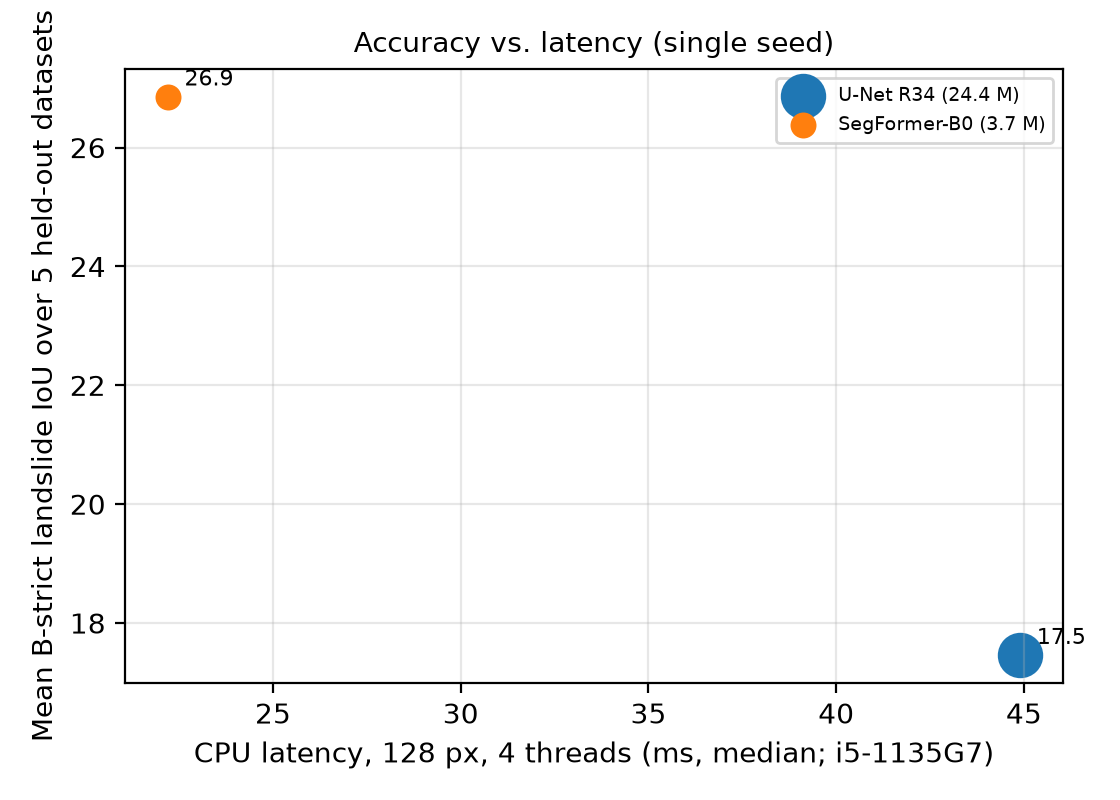
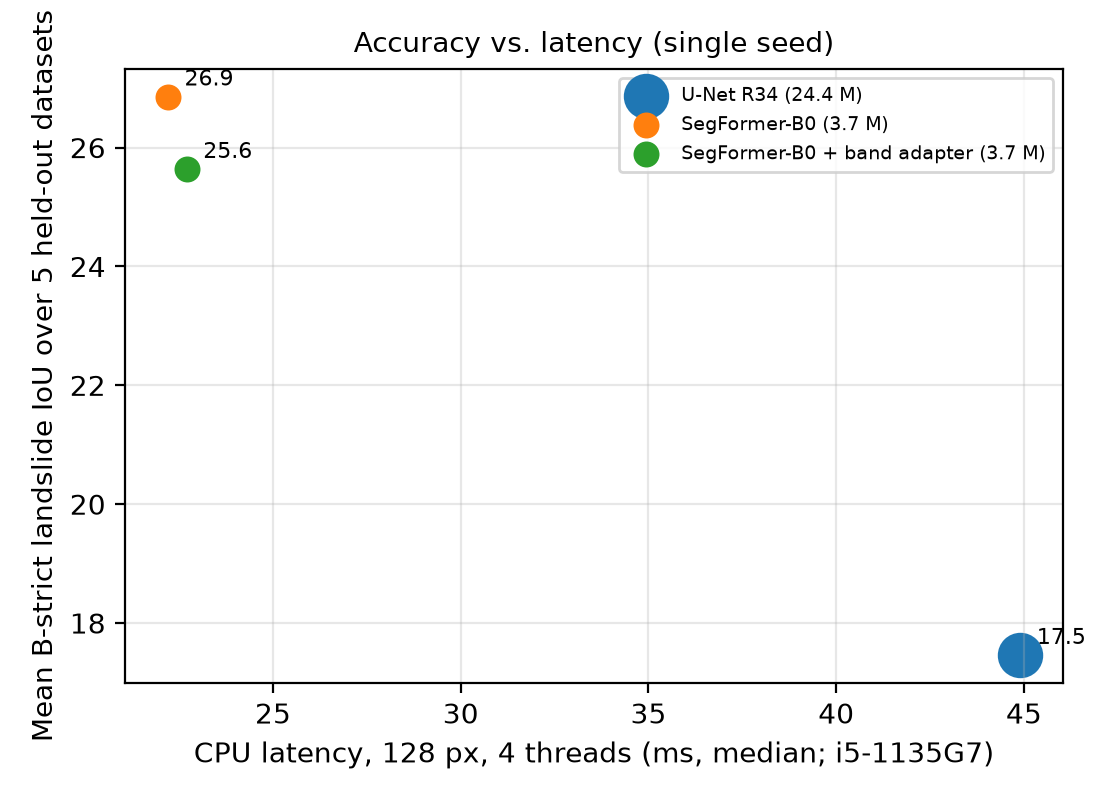
Adapter cross-dataset results; name normalisation in readers; ledger

Changed region(s): [[0.5312, 0.0938, 0.9375, 0.2188], [0.1562, 0.1562, 0.2188, 0.25]]

diff --git a/scripts/aggregate.py b/scripts/aggregate.py
@@ -3,6 +3,7 @@
 Run: python -I scripts/aggregate.py
 """
 import json
+import re
 from pathlib import Path
 
 import numpy as np
@@ -14,7 +15,7 @@ for f in sorted((ROOT / "results" / "runs").glob("*/result.json")):
     r = json.loads(f.read_text())
     for ds, m in r["test"].items():
         m = {k: v for k, v in m.items() if k != "by_group"}
-        rows.append(dict(run=r["run_id"], name=r["config"]["name"], model=r["config"]["model"], fold=r["config"]["fold"], seed=r["seed"],
+        rows.append(dict(run=r["run_id"], name=re.sub(r"__holdout_\w+$", "", r["config"]["name"]), model=r["config"]["model"], fold=r["config"]["fold"], seed=r["seed"],
                          test_dataset=ds, mIoU=100 * m["miou"], IoU_landslide=100 * m["iou_landslide"], F1=100 * m["f1"],
                          precision=100 * m["precision"], recall=100 * m["recall"], PR_AUC=m["pr_auc"], ECE=m["ece"],
                          params_M=r["n_params"] / 1e6, GFLOPs=r["gflops_at_input"], input_px=r["input_hw"], train_s=r["train_seconds"],

diff --git a/scripts/make_paper_tables.py b/scripts/make_paper_tables.py
@@ -4,6 +4,7 @@ Run: python -I scripts/make_paper_tables.py  ->  results/tables/paper_tables.md
 Cells without a run print 'n/a'. Cells with >1 seed print mean +- std (n); single-seed cells print the value and '(n=1)'.
 """
 import json
+import re
 from pathlib import Path
 
 import numpy as np
@@ -12,7 +13,8 @@ ROOT = Path(__file__).resolve().parents[1]
 RUNS = {}
 for f in sorted((ROOT / "results" / "runs").glob("*/result.json")):
     r = json.loads(f.read_text())
-    RUNS.setdefault((r["config"]["name"], r["config"]["fold"]), []).append(r)
+    # the adapter configs carry the fold inside `name` (xd_..._adapter_...__holdout_X); strip it so name identifies the method only
+    RUNS.setdefault((re.sub(r"__holdout_\w+$", "", r["config"]["name"]), r["config"]["fold"]), []).append(r)
 DS = ["l4s", "hrgldd", "gdcld", "lmhld", "cas"]
 NAMES = {"l4s": "L4S", "hrgldd": "HR-GLDD", "gdcld": "GDCLD", "lmhld": "LMHLD", "cas": "CAS"}
 

diff --git a/scripts/make_figures.py b/scripts/make_figures.py
@@ -22,8 +22,11 @@ DS = ["l4s", "hrgldd", "gdcld", "lmhld", "cas"]
 
 
 def load(name, fold):
-    f = RUNS / f"{name}__{fold}__seed0" / "result.json"
-    return json.loads(f.read_text()) if f.exists() else None
+    for d in (f"{name}__{fold}__seed0", f"{name}__{fold}__{fold}__seed0"):     # adapter configs carry the fold in their name too
+        f = RUNS / d / "result.json"
+        if f.exists():
+            return json.loads(f.read_text())
+    return None
 
 
 def strict_mean(name_for):

diff --git a/results/tables/paper_tables.md b/results/tables/paper_tables.md
@@ -5,6 +5,9 @@
 | L4S | 14 bands | U-Net R34 | 24.5 | 2.1 | 73.3 | 48.0 | 64.9 | 62.9 | 67.1 | 0.673 | 0.010 |
 | L4S | 14 bands | DeepLabV3+ R34 | 22.5 | 2.1 | 71.9 | 45.3 | 62.3 | 58.3 | 66.9 | 0.636 | 0.011 |
 | L4S | 14 bands | SegFormer-B0 | 3.7 | 0.4 | 72.6 | 46.7 | 63.7 | 57.3 | 71.6 | 0.657 | 0.010 |
+| L4S | RGB | U-Net R34 | 24.4 | 2.0 | 68.2 | 37.9 | 54.9 | 71.7 | 44.5 | 0.572 | 0.011 |
+| L4S | RGB | SegFormer-B0 | 3.7 | 0.4 | 68.8 | 39.2 | 56.3 | 63.1 | 50.8 | 0.556 | 0.011 |
+| L4S | bank (adapter) | SegFormer-B0 + adapter | 3.7 | 0.4 | 70.2 | 42.2 | 59.4 | 51.5 | 70.2 | 0.604 | 0.011 |
 | GDCLD | RGB | U-Net R34 | 24.4 | 7.8 | 69.0 | 38.7 | 55.8 | 68.5 | 47.1 | 0.604 | 0.005 |
 | GDCLD | RGB | DeepLabV3+ R34 | 22.4 | 7.9 | 67.0 | 34.8 | 51.7 | 63.2 | 43.7 | 0.562 | 0.005 |
 | GDCLD | RGB | SegFormer-B0 | 3.7 | 1.7 | 70.1 | 40.9 | 58.1 | 72.6 | 48.4 | 0.654 | 0.004 |
@@ -16,7 +19,7 @@
 |---|---|---|---|---|---|
 | U-Net R34 | 19.5 | 29.9 | 17.5 | 18.2 | 2.3 |
 | SegFormer-B0 | 24.1 | 36.7 | 28.6 | 22.8 | 22.1 |
-| SegFormer-B0 + band adapter | n/a | n/a | n/a | n/a | n/a |
+| SegFormer-B0 + band adapter | 19.5 | 41.1 | 28.9 | 18.1 | 20.6 |
 | SegFormer-B0 student (distilled) | n/a | n/a | n/a | n/a | n/a |
 
 ### Table: cross-dataset, protocol B-strict (event-isolated leave-one-dataset-out), F1
@@ -25,7 +28,7 @@
 |---|---|---|---|---|---|
 | U-Net R34 | 32.6 | 46.0 | 29.8 | 30.7 | 4.4 |
 | SegFormer-B0 | 38.9 | 53.7 | 44.4 | 37.1 | 36.2 |
-| SegFormer-B0 + band adapter | n/a | n/a | n/a | n/a | n/a |
+| SegFormer-B0 + band adapter | 32.7 | 58.3 | 44.8 | 30.7 | 34.1 |
 | SegFormer-B0 student (distilled) | n/a | n/a | n/a | n/a | n/a |
 
 ### Table: cross-dataset, protocol B-strict (event-isolated leave-one-dataset-out), ECE
@@ -34,7 +37,7 @@
 |---|---|---|---|---|---|
 | U-Net R34 | 0.012 | 0.062 | 0.052 | 0.178 | 0.145 |
 | SegFormer-B0 | 0.002 | 0.052 | 0.042 | 0.042 | 0.108 |
-| SegFormer-B0 + band adapter | n/a | n/a | n/a | n/a | n/a |
+| SegFormer-B0 + band adapter | 0.004 | 0.050 | 0.039 | 0.044 | 0.111 |
 | SegFormer-B0 student (distilled) | n/a | n/a | n/a | n/a | n/a |
 
 ### Table: effect of event overlap, SegFormer-B0, landslide IoU (protocol B vs size-matched B vs B-strict)

diff --git a/docs/gpu_budget.md b/docs/gpu_budget.md
@@ -34,9 +34,10 @@ Running total of measured kernel time this week (2026-10-11): smoke 0.05 + l4s 0
 
 Updated running total after xd-fixbgr and xd-sized: **6.9 h** measured (+ hung smoke <= 6 h). Remaining of 30 h: 23.1 h (17.1 h worst case).
 
-| 2026-10-11 | xd-adapter (SegFormer-B0 + band adapter, B-strict, 5 folds, 10 ep) | 5 | LAUNCHED. Estimate ~0.7 h (RGB SegFormer B-strict took 0.6 h; +11-channel loading); cap 2,400 s per job | pending |
+| 2026-10-11 | xd-adapter (SegFormer-B0 + band adapter, B-strict, 5 folds, 10 ep) | 5 | 2,827 s job time + ~1 min start-up = ~0.8 h (estimate 0.7 h) | ~8.2 h |
 | 2026-10-11 | l4s-refs (in-dataset L4S: RGB SegFormer-B0, RGB U-Net, SegFormer-B0 + adapter; 50 ep) | 3 | LAUNCHED. Estimate ~0.45 h (3 x ~460-575 s measured); cap 1,800 s per job | pending |
 | 2026-10-11 | l4srefs (in-dataset L4S: RGB SegFormer-B0, RGB U-Net, SegFormer-B0 + adapter) | 3 | 1,325 s job time + ~1 min start-up = ~0.38 h (estimate 0.45 h) | ~7.3 h |
 | 2026-10-11 | smoke-kd (LoRA teacher + KD path, tiny) | 1 | LAUNCHED. Estimate ~0.05 h; cap 900 s | pending |
 | 2026-10-11 | smokekd (LoRA teacher + KD smoke) | 1 | 52 s job time + start-up = ~0.03 h | ~7.4 h |
 | 2026-10-11 | kd-a (folds l4s, hrgldd) and kd-b (folds gdcld, lmhld, cas): SegFormer-B3 LoRA r=8 teacher (10 ep) + SegFormer-B0 student with KD (10 ep), B-strict, RGB | 5 | LAUNCHED. Estimate kd-a ~0.9 h, kd-b ~0.8 h (teacher ~2.1x and student ~1.7x the measured SegFormer-B0 fold times); cap 4,200 s per fold | pending |
+
